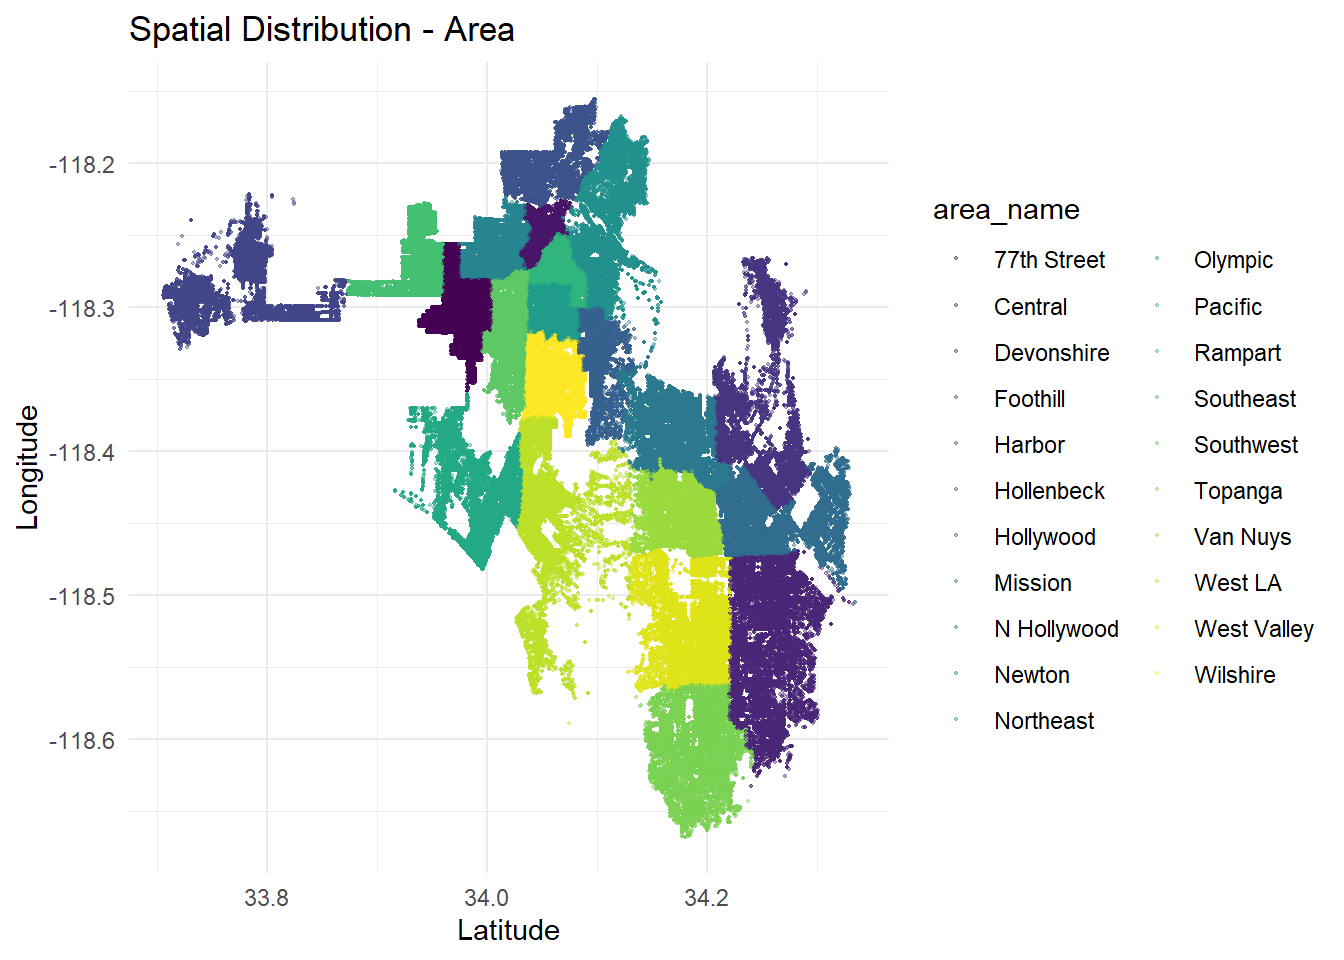
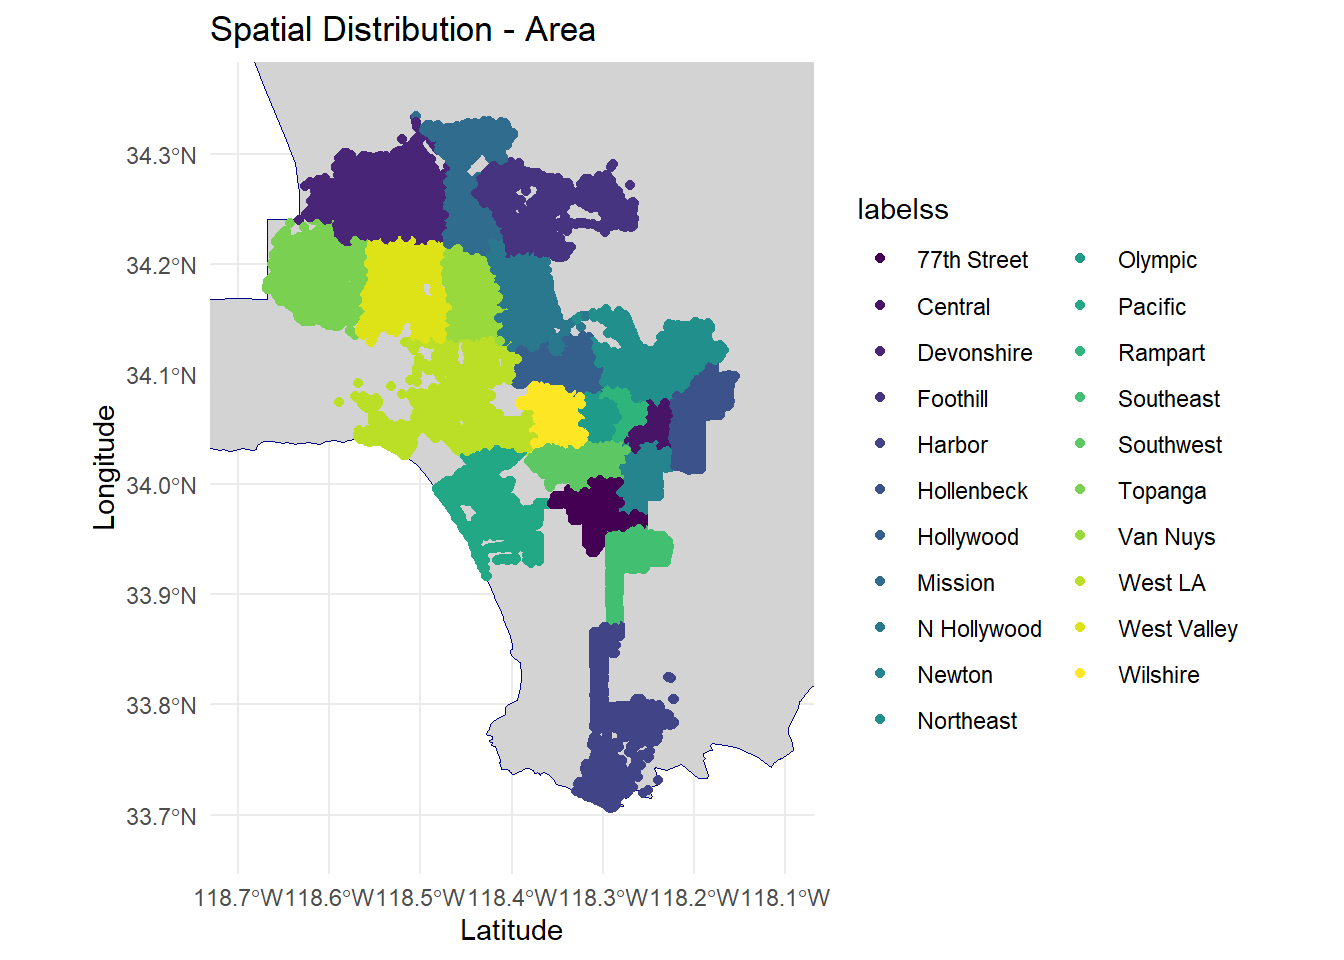
jianming add location.html and map in index

diff --git a/location.html b/location.html
@@ -1,3 +1,3 @@
 version https://git-lfs.github.com/spec/v1
-oid sha256:a85d897edc6f67447ce5f98acb0eea64b95bb429b892227d8a0c40cf15add2f5
-size 123915870
+oid sha256:64b1175bd1691cae559c4797559b0da4945378846e50ba30fdf01eec0712b602
+size 123916742

diff --git a/index.html b/index.html
@@ -1,3 +1,3 @@
 version https://git-lfs.github.com/spec/v1
-oid sha256:5e0124964107b7ce0e6d2b2f1e3d8e62a5ef340393ea9f93a8a5a8f798be7e94
-size 11544
+oid sha256:e0beee296d18d391ade76dbec011e125991b586a6e0e3e96a36d435b8de0f9de
+size 13967
